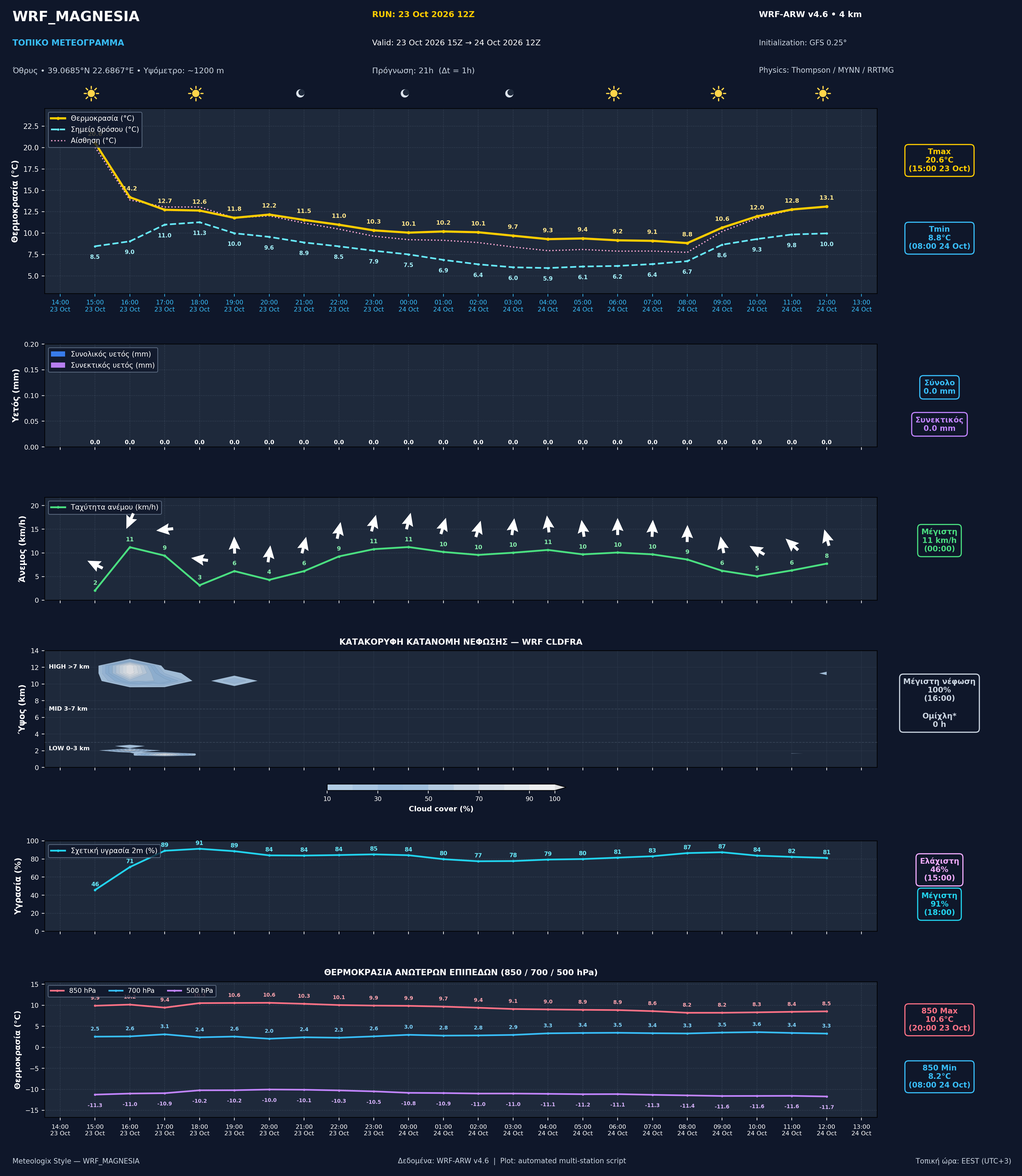
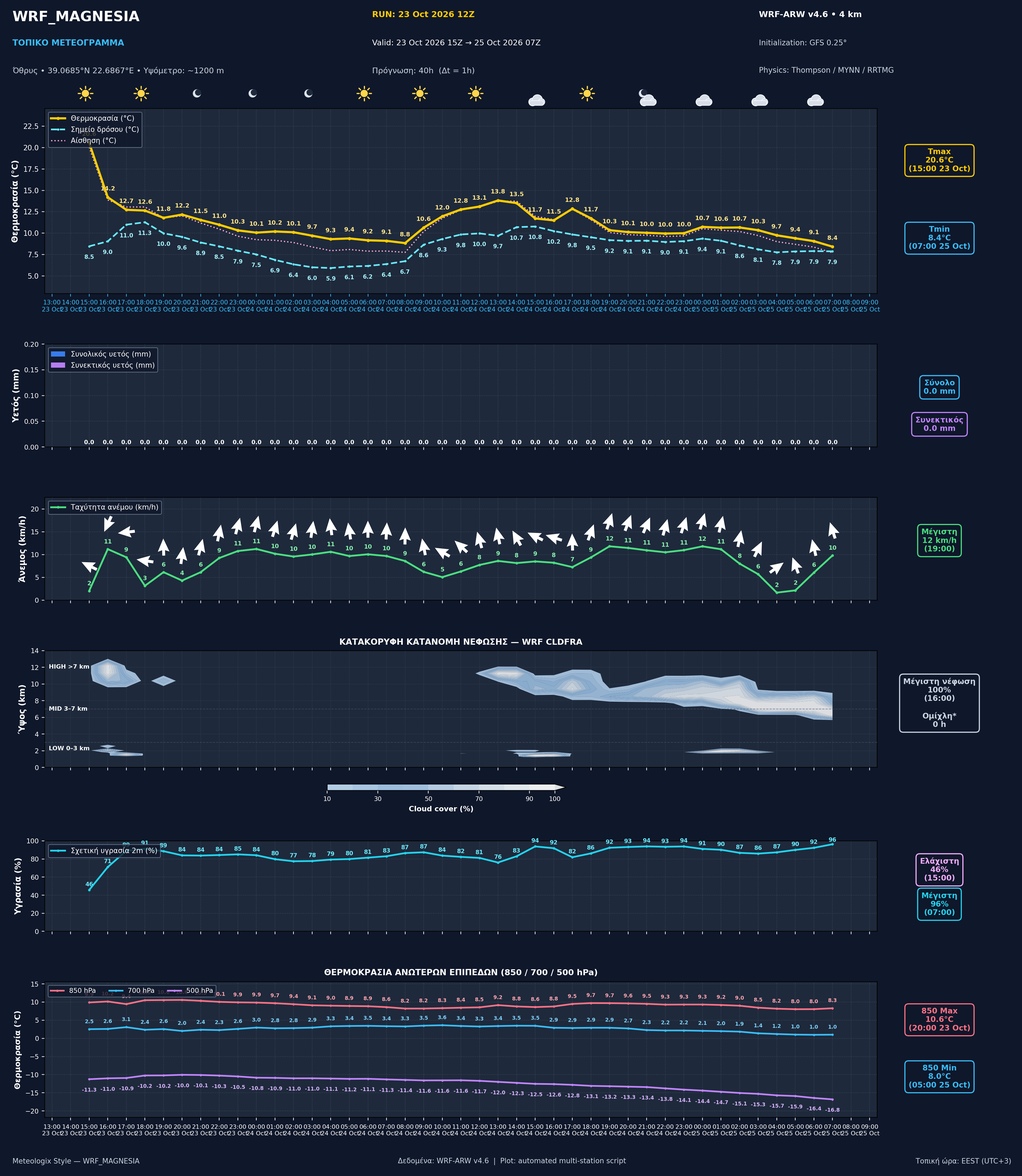
Update all WRF forecast maps

diff --git a/index.html b/index.html
@@ -485,7 +485,7 @@ const tabs=Array.from(document.querySelectorAll(".tab"));
 const title=document.getElementById("mapTitle"),validTime=document.getElementById("validTime"),slider=document.getElementById("hourSlider"),prev=document.getElementById("prevBtn"),next=document.getElementById("nextBtn"),placeholder=document.getElementById("mapPlaceholder"),image=document.getElementById("mapImage"),caption=document.getElementById("mapCaption"),statusText=document.getElementById("statusText");
 // Στο επόμενο βήμα θα βάλουμε εδώ τις δημόσιες διευθύνσεις των πραγματικών εικόνων WRF.
 // Παράδειγμα: rain:[{hour:0,url:"maps/rain_fh00.png",label:"..."}]
-const maps={"temp":[{"hour":0,"url":"maps/temp/Temp2m_LandRelief_FH0h.png","label":"+0 ώρες","valid":"Πρόγνωση +0 h","caption":"WRF MAGNESIA — +0 ώρες"},{"hour":1,"url":"maps/temp/Temp2m_LandRelief_FH1h.png","label":"+1 ώρες","valid":"Πρόγνωση +1 h","caption":"WRF MAGNESIA — +1 ώρες"},{"hour":2,"url":"maps/temp/Temp2m_LandRelief_FH2h.png","label":"+2 ώρες","valid":"Πρόγνωση +2 h","caption":"WRF MAGNESIA — +2 ώρες"},{"hour":3,"url":"maps/temp/Temp2m_LandRelief_FH3h.png","label":"+3 ώρες","valid":"Πρόγνωση +3 h","caption":"WRF MAGNESIA — +3 ώρες"},{"hour":4,"url":"maps/temp/Temp2m_LandRelief_FH4h.png","label":"+4 ώρες","valid":"Πρόγνωση +4 h","caption":"WRF MAGNESIA — +4 ώρες"},{"hour":5,"url":"maps/temp/Temp2m_LandRelief_FH5h.png","label":"+5 ώρες","valid":"Πρόγνωση +5 h","caption":"WRF MAGNESIA — +5 ώρες"},{"hour":6,"url":"maps/temp/Temp2m_LandRelief_FH6h.png","label":"+6 ώρες","valid":"Πρόγνωση +6 h","caption":"WRF MAGNESIA — +6 ώρες"},{"hour":7,"url":"maps/temp/Temp2m_LandRelief_FH7h.png","label":"+7 ώρες","valid":"Πρόγνωση +7 h","caption":"WRF MAGNESIA — +7 ώρες"},{"hour":8,"url":"maps/temp/Temp2m_LandRelief_FH8h.png","label":"+8 ώρες","valid":"Πρόγνωση +8 h","caption":"WRF MAGNESIA — +8 ώρες"},{"hour":9,"url":"maps/temp/Temp2m_LandRelief_FH9h.png","label":"+9 ώρες","valid":"Πρόγνωση +9 h","caption":"WRF MAGNESIA — +9 ώρες"},{"hour":10,"url":"maps/temp/Temp2m_LandRelief_FH10h.png","label":"+10 ώρες","valid":"Πρόγνωση +10 h","caption":"WRF MAGNESIA — +10 ώρες"},{"hour":11,"url":"maps/temp/Temp2m_LandRelief_FH11h.png","label":"+11 ώρες","valid":"Πρόγνωση +11 h","caption":"WRF MAGNESIA — +11 ώρες"},{"hour":12,"url":"maps/temp/Temp2m_LandRelief_FH12h.png","label":"+12 ώρες","valid":"Πρόγνωση +12 h","caption":"WRF MAGNESIA — +12 ώρες"},{"hour":13,"url":"maps/temp/Temp2m_LandRelief_FH13h.png","label":"+13 ώρες","valid":"Πρόγνωση +13 h","caption":"WRF MAGNESIA — +13 ώρες"},{"hour":14,"url":"maps/temp/Temp2m_LandRelief_FH14h.png","label":"+14 ώρες","valid":"Πρόγνωση +14 h","caption":"WRF MAGNESIA — +14 ώρες"},{"hour":15,"url":"maps/temp/Temp2m_LandRelief_FH15h.png","label":"+15 ώρες","valid":"Πρόγνωση +15 h","caption":"WRF MAGNESIA — +15 ώρες"},{"hour":16,"url":"maps/temp/Temp2m_LandRelief_FH16h.png","label":"+16 ώρες","valid":"Πρόγνωση +16 h","caption":"WRF MAGNESIA — +16 ώρες"},{"hour":17,"url":"maps/temp/Temp2m_LandRelief_FH17h.png","label":"+17 ώρες","valid":"Πρόγνωση +17 h","caption":"WRF MAGNESIA — +17 ώρες"},{"hour":18,"url":"maps/temp/Temp2m_LandRelief_FH18h.png","label":"+18 ώρες","valid":"Πρόγνωση +18 h","caption":"WRF MAGNESIA — +18 ώρες"},{"hour":19,"url":"maps/temp/Temp2m_LandRelief_FH19h.png","label":"+19 ώρες","valid":"Πρόγνωση +19 h","caption":"WRF MAGNESIA — +19 ώρες"},{"hour":20,"url":"maps/temp/Temp2m_LandRelief_FH20h.png","label":"+20 ώρες","valid":"Πρόγνωση +20 h","caption":"WRF MAGNESIA — +20 ώρες"},{"hour":21,"url":"maps/temp/Temp2m_LandRelief_FH21h.png","label":"+21 ώρες","valid":"Πρόγνωση +21 h","caption":"WRF MAGNESIA — +21 ώρες"}],"wind":[{"hour":0,"url":"maps/wind/WindGust_Meteologix_FH0h.png","label":"+0 ώρες","valid":"Πρόγνωση +0 h","caption":"WRF MAGNESIA — +0 ώρες"},{"hour":1,"url":"maps/wind/WindGust_Meteologix_FH1h.png","label":"+1 ώρες","valid":"Πρόγνωση +1 h","caption":"WRF MAGNESIA — +1 ώρες"},{"hour":2,"url":"maps/wind/WindGust_Meteologix_FH2h.png","label":"+2 ώρες","valid":"Πρόγνωση +2 h","caption":"WRF MAGNESIA — +2 ώρες"},{"hour":3,"url":"maps/wind/WindGust_Meteologix_FH3h.png","label":"+3 ώρες","valid":"Πρόγνωση +3 h","caption":"WRF MAGNESIA — +3 ώρες"},{"hour":4,"url":"maps/wind/WindGust_Meteologix_FH4h.png","label":"+4 ώρες","valid":"Πρόγνωση +4 h","caption":"WRF MAGNESIA — +4 ώρες"},{"hour":5,"url":"maps/wind/WindGust_Meteologix_FH5h.png","label":"+5 ώρες","valid":"Πρόγνωση +5 h","caption":"WRF MAGNESIA — +5 ώρες"},{"hour":6,"url":"maps/wind/WindGust_Meteologix_FH6h.png","label":"+6 ώρες","valid":"Πρόγνωση +6 h","caption":"WRF MAGNESIA — +6 ώρες"},{"hour":7,"url":"maps/wind/WindGust_Meteologix_FH7h.png","label":"+7 ώρες","valid":"Πρόγνωση +7 h","caption":"WRF MAGNESIA — +7 ώρες"},{"hour":8,"url":"maps/wind/WindGust_Meteologix_FH8h.png","label":"+8 ώρες","valid":"Πρόγνωση +8 h","caption":"WRF MAGNESIA — +8 ώρες"},{"hour":9,"url":"maps/wind/WindGust_Meteologix_FH9h.png","label":"+9 ώρες","valid":"Πρόγνωση +9 h","caption":"WRF MAGNESIA — +9 ώρες"},{"hour":10,"url":"maps/wind/WindGust_Meteologix_FH10h.png","label":"+10 ώρες","valid":"Πρόγνωση +10 h","caption":"WRF MAGNESIA — +10 ώρες"},{"hour":11,"url":"maps/wind/WindGust_Meteologix_FH11h.png","label":"+11 ώρες","valid":"Πρόγνωση +11 h","caption":"WRF MAGNESIA — +11 ώρες"},{"hour":12,"url":"maps/wind/WindGust_Meteologix_FH12h.png","label":"+12 ώρες","valid":"Πρόγνωση +12 h","caption":"WRF MAGNESIA — +12 ώρες"},{"hour":13,"url":"maps/wind/WindGust_Meteologix_FH13h.png","label":"+13 ώρες","valid":"Πρόγνωση +13 h","caption":"WRF MAGNESIA — +13 ώρες"},{"hour":14,"url":"maps/wind/WindGust_Meteologix_FH14h.png","label":"+14 ώρες","valid":"Πρόγνωση +14 h","caption":"WRF MAGNESIA — +14 ώρες"},{"hour":15,"url":"maps/wind/WindGust_Meteologix_FH15h.png","label":"+15 ώρες","valid":"Πρόγνωση +15 h","caption":"WRF MAGNESIA — +15 ώρες"},{"hour":16,"url":"maps/wind/WindGust_Meteologix_FH16h.png","label":"+16 ώρες","valid":"Πρόγνωση +16 h","caption":"WRF MAGNESIA — +16 ώρες"},{"hour":17,"url":"maps/wind/WindGust_Meteologix_FH17h.png","label":"+17 ώρες","valid":"Πρόγνωση +17 h","caption":"WRF MAGNESIA — +17 ώρες"},{"hour":18,"url":"maps/wind/WindGust_Meteologix_FH18h.png","label":"+18 ώρες","valid":"Πρόγνωση +18 h","caption":"WRF MAGNESIA — +18 ώρες"},{"hour":19,"url":"maps/wind/WindGust_Meteologix_FH19h.png","label":"+19 ώρες","valid":"Πρόγνωση +19 h","caption":"WRF MAGNESIA — +19 ώρες"},{"hour":20,"url":"maps/wind/WindGust_Meteologix_FH20h.png","label":"+20 ώρες","valid":"Πρόγνωση +20 h","caption":"WRF MAGNESIA — +20 ώρες"},{"hour":21,"url":"maps/wind/WindGust_Meteologix_FH21h.png","label":"+21 ώρες","valid":"Πρόγνωση +21 h","caption":"WRF MAGNESIA — +21 ώρες"}],"cloud":[{"hour":0,"url":"maps/cloud/Magnesia_Meteologix_2026-10-23_12-00-00.png","label":"2026-10-23 12:00","valid":"2026-10-23 12:00","caption":"WRF MAGNESIA — 2026-10-23 12:00"},{"hour":1,"url":"maps/cloud/Magnesia_Meteologix_2026-10-23_13-00-00.png","label":"2026-10-23 13:00","valid":"2026-10-23 13:00","caption":"WRF MAGNESIA — 2026-10-23 13:00"},{"hour":2,"url":"maps/cloud/Magnesia_Meteologix_2026-10-23_14-00-00.png","label":"2026-10-23 14:00","valid":"2026-10-23 14:00","caption":"WRF MAGNESIA — 2026-10-23 14:00"},{"hour":3,"url":"maps/cloud/Magnesia_Meteologix_2026-10-23_15-00-00.png","label":"2026-10-23 15:00","valid":"2026-10-23 15:00","caption":"WRF MAGNESIA — 2026-10-23 15:00"},{"hour":4,"url":"maps/cloud/Magnesia_Meteologix_2026-10-23_16-00-00.png","label":"2026-10-23 16:00","valid":"2026-10-23 16:00","caption":"WRF MAGNESIA — 2026-10-23 16:00"},{"hour":5,"url":"maps/cloud/Magnesia_Meteologix_2026-10-23_17-00-00.png","label":"2026-10-23 17:00","valid":"2026-10-23 17:00","caption":"WRF MAGNESIA — 2026-10-23 17:00"},{"hour":6,"url":"maps/cloud/Magnesia_Meteologix_2026-10-23_18-00-00.png","label":"2026-10-23 18:00","valid":"2026-10-23 18:00","caption":"WRF MAGNESIA — 2026-10-23 18:00"},{"hour":7,"url":"maps/cloud/Magnesia_Meteologix_2026-10-23_19-00-00.png","label":"2026-10-23 19:00","valid":"2026-10-23 19:00","caption":"WRF MAGNESIA — 2026-10-23 19:00"},{"hour":8,"url":"maps/cloud/Magnesia_Meteologix_2026-10-23_20-00-00.png","label":"2026-10-23 20:00","valid":"2026-10-23 20:00","caption":"WRF MAGNESIA — 2026-10-23 20:00"},{"hour":9,"url":"maps/cloud/Magnesia_Meteologix_2026-10-23_21-00-00.png","label":"2026-10-23 21:00","valid":"2026-10-23 21:00","caption":"WRF MAGNESIA — 2026-10-23 21:00"},{"hour":10,"url":"maps/cloud/Magnesia_Meteologix_2026-10-23_22-00-00.png","label":"2026-10-23 22:00","valid":"2026-10-23 22:00","caption":"WRF MAGNESIA — 2026-10-23 22:00"},{"hour":11,"url":"maps/cloud/Magnesia_Meteologix_2026-10-23_23-00-00.png","label":"2026-10-23 23:00","valid":"2026-10-23 23:00","caption":"WRF MAGNESIA — 2026-10-23 23:00"},{"hour":12,"url":"maps/cloud/Magnesia_Meteologix_2026-10-24_00-00-00.png","label":"2026-10-24 00:00","valid":"2026-10-24 00:00","caption":"WRF MAGNESIA — 2026-10-24 00:00"},{"hour":13,"url":"maps/cloud/Magnesia_Meteologix_2026-10-24_01-00-00.png","label":"2026-10-24 01:00","valid":"2026-10-24 01:00","caption":"WRF MAGNESIA — 2026-10-24 01:00"},{"hour":14,"url":"maps/cloud/Magnesia_Meteologix_2026-10-24_02-00-00.png","label":"2026-10-24 02:00","valid":"2026-10-24 02:00","caption":"WRF MAGNESIA — 2026-10-24 02:00"},{"hour":15,"url":"maps/cloud/Magnesia_Meteologix_2026-10-24_03-00-00.png","label":"2026-10-24 03:00","valid":"2026-10-24 03:00","caption":"WRF MAGNESIA — 2026-10-24 03:00"},{"hour":16,"url":"maps/cloud/Magnesia_Meteologix_2026-10-24_04-00-00.png","label":"2026-10-24 04:00","valid":"2026-10-24 04:00","caption":"WRF MAGNESIA — 2026-10-24 04:00"},{"hour":17,"url":"maps/cloud/Magnesia_Meteologix_2026-10-24_05-00-00.png","label":"2026-10-24 05:00","valid":"2026-10-24 05:00","caption":"WRF MAGNESIA — 2026-10-24 05:00"},{"hour":18,"url":"maps/cloud/Magnesia_Meteologix_2026-10-24_06-00-00.png","label":"2026-10-24 06:00","valid":"2026-10-24 06:00","caption":"WRF MAGNESIA — 2026-10-24 06:00"},{"hour":19,"url":"maps/cloud/Magnesia_Meteologix_2026-10-24_07-00-00.png","label":"2026-10-24 07:00","valid":"2026-10-24 07:00","caption":"WRF MAGNESIA — 2026-10-24 07:00"},{"hour":20,"url":"maps/cloud/Magnesia_Meteologix_2026-10-24_08-00-00.png","label":"2026-10-24 08:00","valid":"2026-10-24 08:00","caption":"WRF MAGNESIA — 2026-10-24 08:00"},{"hour":21,"url":"maps/cloud/Magnesia_Meteologix_2026-10-24_09-00-00.png","label":"2026-10-24 09:00","valid":"2026-10-24 09:00","caption":"WRF MAGNESIA — 2026-10-24 09:00"}],"rain":[{"hour":0,"url":"maps/rain/ (2).png","label":" (2)","valid":" (2)","caption":"WRF MAGNESIA —  (2)"},{"hour":1,"url":"maps/rain/ (3).png","label":" (3)","valid":" (3)","caption":"WRF MAGNESIA —  (3)"},{"hour":2,"url":"maps/rain/ (4).png","label":" (4)","valid":" (4)","caption":"WRF MAGNESIA —  (4)"},{"hour":3,"url":"maps/rain/ (5).png","label":" (5)","valid":" (5)","caption":"WRF MAGNESIA —  (5)"}],"snow":[{"hour":0,"url":"maps/snow/Magnesia_Snow_20261022_0000.png","label":"2026-10-22 00:00","valid":"2026-10-22 00:00","caption":"WRF MAGNESIA — 2026-10-22 00:00"},{"hour":1,"url":"maps/snow/Magnesia_Snow_20261022_0100.png","label":"2026-10-22 01:00","valid":"2026-10-22 01:00","caption":"WRF MAGNESIA — 2026-10-22 01:00"},{"hour":2,"url":"maps/snow/Magnesia_Snow_20261022_0200.png","label":"2026-10-22 02:00","valid":"2026-10-22 02:00","caption":"WRF MAGNESIA — 2026-10-22 02:00"},{"hour":3,"url":"maps/snow/Magnesia_Snow_20261022_0300.png","label":"2026-10-22 03:00","valid":"2026-10-22 03:00","caption":"WRF MAGNESIA — 2026-10-22 03:00"},{"hour":4,"url":"maps/snow/Magnesia_Snow_20261022_0400.png","label":"2026-10-22 04:00","valid":"2026-10-22 04:00","caption":"WRF MAGNESIA — 2026-10-22 04:00"},{"hour":5,"url":"maps/snow/Magnesia_Snow_20261022_0500.png","label":"2026-10-22 05:00","valid":"2026-10-22 05:00","caption":"WRF MAGNESIA — 2026-10-22 05:00"},{"hour":6,"url":"maps/snow/Magnesia_Snow_20261022_0600.png","label":"2026-10-22 06:00","valid":"2026-10-22 06:00","caption":"WRF MAGNESIA — 2026-10-22 06:00"},{"hour":7,"url":"maps/snow/Magnesia_Snow_20261022_0700.png","label":"2026-10-22 07:00","valid":"2026-10-22 07:00","caption":"WRF MAGNESIA — 2026-10-22 07:00"},{"hour":8,"url":"maps/snow/Magnesia_Snow_20261022_0800.png","label":"2026-10-22 08:00","valid":"2026-10-22 08:00","caption":"WRF MAGNESIA — 2026-10-22 08:00"},{"hour":9,"url":"maps/snow/Magnesia_Snow_20261022_0900.png","label":"2026-10-22 09:00","valid":"2026-10-22 09:00","caption":"WRF MAGNESIA — 2026-10-22 09:00"},{"hour":10,"url":"maps/snow/Magnesia_Snow_20261022_1000.png","label":"2026-10-22 10:00","valid":"2026-10-22 10:00","caption":"WRF MAGNESIA — 2026-10-22 10:00"},{"hour":11,"url":"maps/snow/Magnesia_Snow_20261022_1100.png","label":"2026-10-22 11:00","valid":"2026-10-22 11:00","caption":"WRF MAGNESIA — 2026-10-22 11:00"},{"hour":12,"url":"maps/snow/Magnesia_Snow_20261022_1200.png","label":"2026-10-22 12:00","valid":"2026-10-22 12:00","caption":"WRF MAGNESIA — 2026-10-22 12:00"},{"hour":13,"url":"maps/snow/Magnesia_Snow_20261022_1300.png","label":"2026-10-22 13:00","valid":"2026-10-22 13:00","caption":"WRF MAGNESIA — 2026-10-22 13:00"},{"hour":14,"url":"maps/snow/Magnesia_Snow_20261022_1400.png","label":"2026-10-22 14:00","valid":"2026-10-22 14:00","caption":"WRF MAGNESIA — 2026-10-22 14:00"},{"hour":15,"url":"maps/snow/Magnesia_Snow_20261022_1500.png","label":"2026-10-22 15:00","valid":"2026-10-22 15:00","caption":"WRF MAGNESIA — 2026-10-22 15:00"},{"hour":16,"url":"maps/snow/Magnesia_Snow_20261022_1600.png","label":"2026-10-22 16:00","valid":"2026-10-22 16:00","caption":"WRF MAGNESIA — 2026-10-22 16:00"},{"hour":17,"url":"maps/snow/Magnesia_Snow_20261022_1700.png","label":"2026-10-22 17:00","valid":"2026-10-22 17:00","caption":"WRF MAGNESIA — 2026-10-22 17:00"},{"hour":18,"url":"maps/snow/Magnesia_Snow_20261022_1800.png","label":"2026-10-22 18:00","valid":"2026-10-22 18:00","caption":"WRF MAGNESIA — 2026-10-22 18:00"},{"hour":19,"url":"maps/snow/Magnesia_Snow_20261022_1900.png","label":"2026-10-22 19:00","valid":"2026-10-22 19:00","caption":"WRF MAGNESIA — 2026-10-22 19:00"},{"hour":20,"url":"maps/snow/Magnesia_Snow_20261022_2000.png","label":"2026-10-22 20:00","valid":"2026-10-22 20:00","caption":"WRF MAGNESIA — 2026-10-22 20:00"},{"hour":21,"url":"maps/snow/Magnesia_Snow_20261022_2100.png","label":"2026-10-22 21:00","valid":"2026-10-22 21:00","caption":"WRF MAGNESIA — 2026-10-22 21:00"},{"hour":22,"url":"maps/snow/Magnesia_Snow_20261022_2200.png","label":"2026-10-22 22:00","valid":"2026-10-22 22:00","caption":"WRF MAGNESIA — 2026-10-22 22:00"},{"hour":23,"url":"maps/snow/Magnesia_Snow_20261022_2300.png","label":"2026-10-22 23:00","valid":"2026-10-22 23:00","caption":"WRF MAGNESIA — 2026-10-22 23:00"},{"hour":24,"url":"maps/snow/Magnesia_Snow_20261023_0000.png","label":"2026-10-23 00:00","valid":"2026-10-23 00:00","caption":"WRF MAGNESIA — 2026-10-23 00:00"},{"hour":25,"url":"maps/snow/Magnesia_Snow_20261023_0100.png","label":"2026-10-23 01:00","valid":"2026-10-23 01:00","caption":"WRF MAGNESIA — 2026-10-23 01:00"},{"hour":26,"url":"maps/snow/Magnesia_Snow_20261023_0200.png","label":"2026-10-23 02:00","valid":"2026-10-23 02:00","caption":"WRF MAGNESIA — 2026-10-23 02:00"},{"hour":27,"url":"maps/snow/Magnesia_Snow_20261023_0300.png","label":"2026-10-23 03:00","valid":"2026-10-23 03:00","caption":"WRF MAGNESIA — 2026-10-23 03:00"},{"hour":28,"url":"maps/snow/Magnesia_Snow_20261023_0400.png","label":"2026-10-23 04:00","valid":"2026-10-23 04:00","caption":"WRF MAGNESIA — 2026-10-23 04:00"},{"hour":29,"url":"maps/snow/Magnesia_Snow_20261023_0500.png","label":"2026-10-23 05:00","valid":"2026-10-23 05:00","caption":"WRF MAGNESIA — 2026-10-23 05:00"},{"hour":30,"url":"maps/snow/Magnesia_Snow_20261023_0600.png","label":"2026-10-23 06:00","valid":"2026-10-23 06:00","caption":"WRF MAGNESIA — 2026-10-23 06:00"}],"meteograms":[{"hour":0,"url":"maps/meteograms/Meteogram_Αλμυρός.png","label":"Αλμυρός","valid":"Αλμυρός","caption":"WRF MAGNESIA — Αλμυρός"},{"hour":1,"url":"maps/meteograms/Meteogram_Ανάβρα.png","label":"Ανάβρα","valid":"Ανάβρα","caption":"WRF MAGNESIA — Ανάβρα"},{"hour":2,"url":"maps/meteograms/Meteogram_Αργαλαστή.png","label":"Αργαλαστή","valid":"Αργαλαστή","caption":"WRF MAGNESIA — Αργαλαστή"},{"hour":3,"url":"maps/meteograms/Meteogram_Βόλος.png","label":"Βόλος","valid":"Βόλος","caption":"WRF MAGNESIA — Βόλος"},{"hour":4,"url":"maps/meteograms/Meteogram_Ζαγορά.png","label":"Ζαγορά","valid":"Ζαγορά","caption":"WRF MAGNESIA — Ζαγορά"},{"hour":5,"url":"maps/meteograms/Meteogram_Κωφοί_Μαγνησίας.png","label":"Κωφοί Μαγνησίας","valid":"Κωφοί Μαγνησίας","caption":"WRF MAGNESIA — Κωφοί Μαγνησίας"},{"hour":6,"url":"maps/meteograms/Meteogram_Σούρπη.png","label":"Σούρπη","valid":"Σούρπη","caption":"WRF MAGNESIA — Σούρπη"},{"hour":7,"url":"maps/meteograms/Meteogram_Όθρυς.png","label":"Όθρυς","valid":"Όθρυς","caption":"WRF MAGNESIA — Όθρυς"}],"storms":[],"profiles":[{"hour":0,"url":"maps/profiles/kofos_vertical_advanced_v4_4_gfs_direct.png","label":"Κωφοί — κατακόρυφο προφίλ","valid":"Κωφοί — κατακόρυφο προφίλ","caption":"WRF MAGNESIA — Κωφοί — κατακόρυφο προφίλ"}],"local-forecast":[{"hour":0,"url":"maps/local-forecast/forecast_almyros.png","label":"almyros","valid":"almyros","caption":"WRF MAGNESIA — almyros"},{"hour":1,"url":"maps/local-forecast/forecast_anchialos.png","label":"anchialos","valid":"anchialos","caption":"WRF MAGNESIA — anchialos"},{"hour":2,"url":"maps/local-forecast/forecast_argalasti.png","label":"argalasti","valid":"argalasti","caption":"WRF MAGNESIA — argalasti"},{"hour":3,"url":"maps/local-forecast/forecast_kofoi.png","label":"kofoi","valid":"kofoi","caption":"WRF MAGNESIA — kofoi"},{"hour":4,"url":"maps/local-forecast/forecast_othrys.png","label":"othrys","valid":"othrys","caption":"WRF MAGNESIA — othrys"},{"hour":5,"url":"maps/local-forecast/forecast_sourpi.png","label":"sourpi","valid":"sourpi","caption":"WRF MAGNESIA — sourpi"},{"hour":6,"url":"maps/local-forecast/forecast_velestino.png","label":"velestino","valid":"velestino","caption":"WRF MAGNESIA — velestino"},{"hour":7,"url":"maps/local-forecast/forecast_volos.png","label":"volos","valid":"volos","caption":"WRF MAGNESIA — volos"},{"hour":8,"url":"maps/local-forecast/forecast_zagora.png","label":"zagora","valid":"zagora","caption":"WRF MAGNESIA — zagora"}],"national-rain":[]};
+const maps={"temp":[{"hour":0,"url":"maps/temp/Temp2m_LandRelief_FH0h.png","label":"+0 ώρες","valid":"Πρόγνωση +0 h","caption":"WRF MAGNESIA — +0 ώρες"},{"hour":1,"url":"maps/temp/Temp2m_LandRelief_FH1h.png","label":"+1 ώρες","valid":"Πρόγνωση +1 h","caption":"WRF MAGNESIA — +1 ώρες"},{"hour":2,"url":"maps/temp/Temp2m_LandRelief_FH2h.png","label":"+2 ώρες","valid":"Πρόγνωση +2 h","caption":"WRF MAGNESIA — +2 ώρες"},{"hour":3,"url":"maps/temp/Temp2m_LandRelief_FH3h.png","label":"+3 ώρες","valid":"Πρόγνωση +3 h","caption":"WRF MAGNESIA — +3 ώρες"},{"hour":4,"url":"maps/temp/Temp2m_LandRelief_FH4h.png","label":"+4 ώρες","valid":"Πρόγνωση +4 h","caption":"WRF MAGNESIA — +4 ώρες"},{"hour":5,"url":"maps/temp/Temp2m_LandRelief_FH5h.png","label":"+5 ώρες","valid":"Πρόγνωση +5 h","caption":"WRF MAGNESIA — +5 ώρες"},{"hour":6,"url":"maps/temp/Temp2m_LandRelief_FH6h.png","label":"+6 ώρες","valid":"Πρόγνωση +6 h","caption":"WRF MAGNESIA — +6 ώρες"},{"hour":7,"url":"maps/temp/Temp2m_LandRelief_FH7h.png","label":"+7 ώρες","valid":"Πρόγνωση +7 h","caption":"WRF MAGNESIA — +7 ώρες"},{"hour":8,"url":"maps/temp/Temp2m_LandRelief_FH8h.png","label":"+8 ώρες","valid":"Πρόγνωση +8 h","caption":"WRF MAGNESIA — +8 ώρες"},{"hour":9,"url":"maps/temp/Temp2m_LandRelief_FH9h.png","label":"+9 ώρες","valid":"Πρόγνωση +9 h","caption":"WRF MAGNESIA — +9 ώρες"},{"hour":10,"url":"maps/temp/Temp2m_LandRelief_FH10h.png","label":"+10 ώρες","valid":"Πρόγνωση +10 h","caption":"WRF MAGNESIA — +10 ώρες"},{"hour":11,"url":"maps/temp/Temp2m_LandRelief_FH11h.png","label":"+11 ώρες","valid":"Πρόγνωση +11 h","caption":"WRF MAGNESIA — +11 ώρες"},{"hour":12,"url":"maps/temp/Temp2m_LandRelief_FH12h.png","label":"+12 ώρες","valid":"Πρόγνωση +12 h","caption":"WRF MAGNESIA — +12 ώρες"},{"hour":13,"url":"maps/temp/Temp2m_LandRelief_FH13h.png","label":"+13 ώρες","valid":"Πρόγνωση +13 h","caption":"WRF MAGNESIA — +13 ώρες"},{"hour":14,"url":"maps/temp/Temp2m_LandRelief_FH14h.png","label":"+14 ώρες","valid":"Πρόγνωση +14 h","caption":"WRF MAGNESIA — +14 ώρες"},{"hour":15,"url":"maps/temp/Temp2m_LandRelief_FH15h.png","label":"+15 ώρες","valid":"Πρόγνωση +15 h","caption":"WRF MAGNESIA — +15 ώρες"},{"hour":16,"url":"maps/temp/Temp2m_LandRelief_FH16h.png","label":"+16 ώρες","valid":"Πρόγνωση +16 h","caption":"WRF MAGNESIA — +16 ώρες"},{"hour":17,"url":"maps/temp/Temp2m_LandRelief_FH17h.png","label":"+17 ώρες","valid":"Πρόγνωση +17 h","caption":"WRF MAGNESIA — +17 ώρες"},{"hour":18,"url":"maps/temp/Temp2m_LandRelief_FH18h.png","label":"+18 ώρες","valid":"Πρόγνωση +18 h","caption":"WRF MAGNESIA — +18 ώρες"},{"hour":19,"url":"maps/temp/Temp2m_LandRelief_FH19h.png","label":"+19 ώρες","valid":"Πρόγνωση +19 h","caption":"WRF MAGNESIA — +19 ώρες"},{"hour":20,"url":"maps/temp/Temp2m_LandRelief_FH20h.png","label":"+20 ώρες","valid":"Πρόγνωση +20 h","caption":"WRF MAGNESIA — +20 ώρες"},{"hour":21,"url":"maps/temp/Temp2m_LandRelief_FH21h.png","label":"+21 ώρες","valid":"Πρόγνωση +21 h","caption":"WRF MAGNESIA — +21 ώρες"},{"hour":22,"url":"maps/temp/Temp2m_LandRelief_FH22h.png","label":"+22 ώρες","valid":"Πρόγνωση +22 h","caption":"WRF MAGNESIA — +22 ώρες"},{"hour":23,"url":"maps/temp/Temp2m_LandRelief_FH23h.png","label":"+23 ώρες","valid":"Πρόγνωση +23 h","caption":"WRF MAGNESIA — +23 ώρες"},{"hour":24,"url":"maps/temp/Temp2m_LandRelief_FH24h.png","label":"+24 ώρες","valid":"Πρόγνωση +24 h","caption":"WRF MAGNESIA — +24 ώρες"},{"hour":25,"url":"maps/temp/Temp2m_LandRelief_FH25h.png","label":"+25 ώρες","valid":"Πρόγνωση +25 h","caption":"WRF MAGNESIA — +25 ώρες"},{"hour":26,"url":"maps/temp/Temp2m_LandRelief_FH26h.png","label":"+26 ώρες","valid":"Πρόγνωση +26 h","caption":"WRF MAGNESIA — +26 ώρες"},{"hour":27,"url":"maps/temp/Temp2m_LandRelief_FH27h.png","label":"+27 ώρες","valid":"Πρόγνωση +27 h","caption":"WRF MAGNESIA — +27 ώρες"},{"hour":28,"url":"maps/temp/Temp2m_LandRelief_FH28h.png","label":"+28 ώρες","valid":"Πρόγνωση +28 h","caption":"WRF MAGNESIA — +28 ώρες"},{"hour":29,"url":"maps/temp/Temp2m_LandRelief_FH29h.png","label":"+29 ώρες","valid":"Πρόγνωση +29 h","caption":"WRF MAGNESIA — +29 ώρες"},{"hour":30,"url":"maps/temp/Temp2m_LandRelief_FH30h.png","label":"+30 ώρες","valid":"Πρόγνωση +30 h","caption":"WRF MAGNESIA — +30 ώρες"},{"hour":31,"url":"maps/temp/Temp2m_LandRelief_FH31h.png","label":"+31 ώρες","valid":"Πρόγνωση +31 h","caption":"WRF MAGNESIA — +31 ώρες"},{"hour":32,"url":"maps/temp/Temp2m_LandRelief_FH32h.png","label":"+32 ώρες","valid":"Πρόγνωση +32 h","caption":"WRF MAGNESIA — +32 ώρες"},{"hour":33,"url":"maps/temp/Temp2m_LandRelief_FH33h.png","label":"+33 ώρες","valid":"Πρόγνωση +33 h","caption":"WRF MAGNESIA — +33 ώρες"},{"hour":34,"url":"maps/temp/Temp2m_LandRelief_FH34h.png","label":"+34 ώρες","valid":"Πρόγνωση +34 h","caption":"WRF MAGNESIA — +34 ώρες"},{"hour":35,"url":"maps/temp/Temp2m_LandRelief_FH35h.png","label":"+35 ώρες","valid":"Πρόγνωση +35 h","caption":"WRF MAGNESIA — +35 ώρες"},{"hour":36,"url":"maps/temp/Temp2m_LandRelief_FH36h.png","label":"+36 ώρες","valid":"Πρόγνωση +36 h","caption":"WRF MAGNESIA — +36 ώρες"},{"hour":37,"url":"maps/temp/Temp2m_LandRelief_FH37h.png","label":"+37 ώρες","valid":"Πρόγνωση +37 h","caption":"WRF MAGNESIA — +37 ώρες"},{"hour":38,"url":"maps/temp/Temp2m_LandRelief_FH38h.png","label":"+38 ώρες","valid":"Πρόγνωση +38 h","caption":"WRF MAGNESIA — +38 ώρες"},{"hour":39,"url":"maps/temp/Temp2m_LandRelief_FH39h.png","label":"+39 ώρες","valid":"Πρόγνωση +39 h","caption":"WRF MAGNESIA — +39 ώρες"},{"hour":40,"url":"maps/temp/Temp2m_LandRelief_FH40h.png","label":"+40 ώρες","valid":"Πρόγνωση +40 h","caption":"WRF MAGNESIA — +40 ώρες"}],"wind":[{"hour":0,"url":"maps/wind/WindGust_Meteologix_FH0h.png","label":"+0 ώρες","valid":"Πρόγνωση +0 h","caption":"WRF MAGNESIA — +0 ώρες"},{"hour":1,"url":"maps/wind/WindGust_Meteologix_FH1h.png","label":"+1 ώρες","valid":"Πρόγνωση +1 h","caption":"WRF MAGNESIA — +1 ώρες"},{"hour":2,"url":"maps/wind/WindGust_Meteologix_FH2h.png","label":"+2 ώρες","valid":"Πρόγνωση +2 h","caption":"WRF MAGNESIA — +2 ώρες"},{"hour":3,"url":"maps/wind/WindGust_Meteologix_FH3h.png","label":"+3 ώρες","valid":"Πρόγνωση +3 h","caption":"WRF MAGNESIA — +3 ώρες"},{"hour":4,"url":"maps/wind/WindGust_Meteologix_FH4h.png","label":"+4 ώρες","valid":"Πρόγνωση +4 h","caption":"WRF MAGNESIA — +4 ώρες"},{"hour":5,"url":"maps/wind/WindGust_Meteologix_FH5h.png","label":"+5 ώρες","valid":"Πρόγνωση +5 h","caption":"WRF MAGNESIA — +5 ώρες"},{"hour":6,"url":"maps/wind/WindGust_Meteologix_FH6h.png","label":"+6 ώρες","valid":"Πρόγνωση +6 h","caption":"WRF MAGNESIA — +6 ώρες"},{"hour":7,"url":"maps/wind/WindGust_Meteologix_FH7h.png","label":"+7 ώρες","valid":"Πρόγνωση +7 h","caption":"WRF MAGNESIA — +7 ώρες"},{"hour":8,"url":"maps/wind/WindGust_Meteologix_FH8h.png","label":"+8 ώρες","valid":"Πρόγνωση +8 h","caption":"WRF MAGNESIA — +8 ώρες"},{"hour":9,"url":"maps/wind/WindGust_Meteologix_FH9h.png","label":"+9 ώρες","valid":"Πρόγνωση +9 h","caption":"WRF MAGNESIA — +9 ώρες"},{"hour":10,"url":"maps/wind/WindGust_Meteologix_FH10h.png","label":"+10 ώρες","valid":"Πρόγνωση +10 h","caption":"WRF MAGNESIA — +10 ώρες"},{"hour":11,"url":"maps/wind/WindGust_Meteologix_FH11h.png","label":"+11 ώρες","valid":"Πρόγνωση +11 h","caption":"WRF MAGNESIA — +11 ώρες"},{"hour":12,"url":"maps/wind/WindGust_Meteologix_FH12h.png","label":"+12 ώρες","valid":"Πρόγνωση +12 h","caption":"WRF MAGNESIA — +12 ώρες"},{"hour":13,"url":"maps/wind/WindGust_Meteologix_FH13h.png","label":"+13 ώρες","valid":"Πρόγνωση +13 h","caption":"WRF MAGNESIA — +13 ώρες"},{"hour":14,"url":"maps/wind/WindGust_Meteologix_FH14h.png","label":"+14 ώρες","valid":"Πρόγνωση +14 h","caption":"WRF MAGNESIA — +14 ώρες"},{"hour":15,"url":"maps/wind/WindGust_Meteologix_FH15h.png","label":"+15 ώρες","valid":"Πρόγνωση +15 h","caption":"WRF MAGNESIA — +15 ώρες"},{"hour":16,"url":"maps/wind/WindGust_Meteologix_FH16h.png","label":"+16 ώρες","valid":"Πρόγνωση +16 h","caption":"WRF MAGNESIA — +16 ώρες"},{"hour":17,"url":"maps/wind/WindGust_Meteologix_FH17h.png","label":"+17 ώρες","valid":"Πρόγνωση +17 h","caption":"WRF MAGNESIA — +17 ώρες"},{"hour":18,"url":"maps/wind/WindGust_Meteologix_FH18h.png","label":"+18 ώρες","valid":"Πρόγνωση +18 h","caption":"WRF MAGNESIA — +18 ώρες"},{"hour":19,"url":"maps/wind/WindGust_Meteologix_FH19h.png","label":"+19 ώρες","valid":"Πρόγνωση +19 h","caption":"WRF MAGNESIA — +19 ώρες"},{"hour":20,"url":"maps/wind/WindGust_Meteologix_FH20h.png","label":"+20 ώρες","valid":"Πρόγνωση +20 h","caption":"WRF MAGNESIA — +20 ώρες"},{"hour":21,"url":"maps/wind/WindGust_Meteologix_FH21h.png","label":"+21 ώρες","valid":"Πρόγνωση +21 h","caption":"WRF MAGNESIA — +21 ώρες"},{"hour":22,"url":"maps/wind/WindGust_Meteologix_FH22h.png","label":"+22 ώρες","valid":"Πρόγνωση +22 h","caption":"WRF MAGNESIA — +22 ώρες"},{"hour":23,"url":"maps/wind/WindGust_Meteologix_FH23h.png","label":"+23 ώρες","valid":"Πρόγνωση +23 h","caption":"WRF MAGNESIA — +23 ώρες"},{"hour":24,"url":"maps/wind/WindGust_Meteologix_FH24h.png","label":"+24 ώρες","valid":"Πρόγνωση +24 h","caption":"WRF MAGNESIA — +24 ώρες"},{"hour":25,"url":"maps/wind/WindGust_Meteologix_FH25h.png","label":"+25 ώρες","valid":"Πρόγνωση +25 h","caption":"WRF MAGNESIA — +25 ώρες"},{"hour":26,"url":"maps/wind/WindGust_Meteologix_FH26h.png","label":"+26 ώρες","valid":"Πρόγνωση +26 h","caption":"WRF MAGNESIA — +26 ώρες"},{"hour":27,"url":"maps/wind/WindGust_Meteologix_FH27h.png","label":"+27 ώρες","valid":"Πρόγνωση +27 h","caption":"WRF MAGNESIA — +27 ώρες"},{"hour":28,"url":"maps/wind/WindGust_Meteologix_FH28h.png","label":"+28 ώρες","valid":"Πρόγνωση +28 h","caption":"WRF MAGNESIA — +28 ώρες"},{"hour":29,"url":"maps/wind/WindGust_Meteologix_FH29h.png","label":"+29 ώρες","valid":"Πρόγνωση +29 h","caption":"WRF MAGNESIA — +29 ώρες"},{"hour":30,"url":"maps/wind/WindGust_Meteologix_FH30h.png","label":"+30 ώρες","valid":"Πρόγνωση +30 h","caption":"WRF MAGNESIA — +30 ώρες"},{"hour":31,"url":"maps/wind/WindGust_Meteologix_FH31h.png","label":"+31 ώρες","valid":"Πρόγνωση +31 h","caption":"WRF MAGNESIA — +31 ώρες"},{"hour":32,"url":"maps/wind/WindGust_Meteologix_FH32h.png","label":"+32 ώρες","valid":"Πρόγνωση +32 h","caption":"WRF MAGNESIA — +32 ώρες"},{"hour":33,"url":"maps/wind/WindGust_Meteologix_FH33h.png","label":"+33 ώρες","valid":"Πρόγνωση +33 h","caption":"WRF MAGNESIA — +33 ώρες"},{"hour":34,"url":"maps/wind/WindGust_Meteologix_FH34h.png","label":"+34 ώρες","valid":"Πρόγνωση +34 h","caption":"WRF MAGNESIA — +34 ώρες"},{"hour":35,"url":"maps/wind/WindGust_Meteologix_FH35h.png","label":"+35 ώρες","valid":"Πρόγνωση +35 h","caption":"WRF MAGNESIA — +35 ώρες"},{"hour":36,"url":"maps/wind/WindGust_Meteologix_FH36h.png","label":"+36 ώρες","valid":"Πρόγνωση +36 h","caption":"WRF MAGNESIA — +36 ώρες"},{"hour":37,"url":"maps/wind/WindGust_Meteologix_FH37h.png","label":"+37 ώρες","valid":"Πρόγνωση +37 h","caption":"WRF MAGNESIA — +37 ώρες"},{"hour":38,"url":"maps/wind/WindGust_Meteologix_FH38h.png","label":"+38 ώρες","valid":"Πρόγνωση +38 h","caption":"WRF MAGNESIA — +38 ώρες"},{"hour":39,"url":"maps/wind/WindGust_Meteologix_FH39h.png","label":"+39 ώρες","valid":"Πρόγνωση +39 h","caption":"WRF MAGNESIA — +39 ώρες"},{"hour":40,"url":"maps/wind/WindGust_Meteologix_FH40h.png","label":"+40 ώρες","valid":"Πρόγνωση +40 h","caption":"WRF MAGNESIA — +40 ώρες"}],"cloud":[{"hour":0,"url":"maps/cloud/Magnesia_Meteologix_2026-10-23_12-00-00.png","label":"2026-10-23 12:00","valid":"2026-10-23 12:00","caption":"WRF MAGNESIA — 2026-10-23 12:00"},{"hour":1,"url":"maps/cloud/Magnesia_Meteologix_2026-10-23_13-00-00.png","label":"2026-10-23 13:00","valid":"2026-10-23 13:00","caption":"WRF MAGNESIA — 2026-10-23 13:00"},{"hour":2,"url":"maps/cloud/Magnesia_Meteologix_2026-10-23_14-00-00.png","label":"2026-10-23 14:00","valid":"2026-10-23 14:00","caption":"WRF MAGNESIA — 2026-10-23 14:00"},{"hour":3,"url":"maps/cloud/Magnesia_Meteologix_2026-10-23_15-00-00.png","label":"2026-10-23 15:00","valid":"2026-10-23 15:00","caption":"WRF MAGNESIA — 2026-10-23 15:00"},{"hour":4,"url":"maps/cloud/Magnesia_Meteologix_2026-10-23_16-00-00.png","label":"2026-10-23 16:00","valid":"2026-10-23 16:00","caption":"WRF MAGNESIA — 2026-10-23 16:00"},{"hour":5,"url":"maps/cloud/Magnesia_Meteologix_2026-10-23_17-00-00.png","label":"2026-10-23 17:00","valid":"2026-10-23 17:00","caption":"WRF MAGNESIA — 2026-10-23 17:00"},{"hour":6,"url":"maps/cloud/Magnesia_Meteologix_2026-10-23_18-00-00.png","label":"2026-10-23 18:00","valid":"2026-10-23 18:00","caption":"WRF MAGNESIA — 2026-10-23 18:00"},{"hour":7,"url":"maps/cloud/Magnesia_Meteologix_2026-10-23_19-00-00.png","label":"2026-10-23 19:00","valid":"2026-10-23 19:00","caption":"WRF MAGNESIA — 2026-10-23 19:00"},{"hour":8,"url":"maps/cloud/Magnesia_Meteologix_2026-10-23_20-00-00.png","label":"2026-10-23 20:00","valid":"2026-10-23 20:00","caption":"WRF MAGNESIA — 2026-10-23 20:00"},{"hour":9,"url":"maps/cloud/Magnesia_Meteologix_2026-10-23_21-00-00.png","label":"2026-10-23 21:00","valid":"2026-10-23 21:00","caption":"WRF MAGNESIA — 2026-10-23 21:00"},{"hour":10,"url":"maps/cloud/Magnesia_Meteologix_2026-10-23_22-00-00.png","label":"2026-10-23 22:00","valid":"2026-10-23 22:00","caption":"WRF MAGNESIA — 2026-10-23 22:00"},{"hour":11,"url":"maps/cloud/Magnesia_Meteologix_2026-10-23_23-00-00.png","label":"2026-10-23 23:00","valid":"2026-10-23 23:00","caption":"WRF MAGNESIA — 2026-10-23 23:00"},{"hour":12,"url":"maps/cloud/Magnesia_Meteologix_2026-10-24_00-00-00.png","label":"2026-10-24 00:00","valid":"2026-10-24 00:00","caption":"WRF MAGNESIA — 2026-10-24 00:00"},{"hour":13,"url":"maps/cloud/Magnesia_Meteologix_2026-10-24_01-00-00.png","label":"2026-10-24 01:00","valid":"2026-10-24 01:00","caption":"WRF MAGNESIA — 2026-10-24 01:00"},{"hour":14,"url":"maps/cloud/Magnesia_Meteologix_2026-10-24_02-00-00.png","label":"2026-10-24 02:00","valid":"2026-10-24 02:00","caption":"WRF MAGNESIA — 2026-10-24 02:00"},{"hour":15,"url":"maps/cloud/Magnesia_Meteologix_2026-10-24_03-00-00.png","label":"2026-10-24 03:00","valid":"2026-10-24 03:00","caption":"WRF MAGNESIA — 2026-10-24 03:00"},{"hour":16,"url":"maps/cloud/Magnesia_Meteologix_2026-10-24_04-00-00.png","label":"2026-10-24 04:00","valid":"2026-10-24 04:00","caption":"WRF MAGNESIA — 2026-10-24 04:00"},{"hour":17,"url":"maps/cloud/Magnesia_Meteologix_2026-10-24_05-00-00.png","label":"2026-10-24 05:00","valid":"2026-10-24 05:00","caption":"WRF MAGNESIA — 2026-10-24 05:00"},{"hour":18,"url":"maps/cloud/Magnesia_Meteologix_2026-10-24_06-00-00.png","label":"2026-10-24 06:00","valid":"2026-10-24 06:00","caption":"WRF MAGNESIA — 2026-10-24 06:00"},{"hour":19,"url":"maps/cloud/Magnesia_Meteologix_2026-10-24_07-00-00.png","label":"2026-10-24 07:00","valid":"2026-10-24 07:00","caption":"WRF MAGNESIA — 2026-10-24 07:00"},{"hour":20,"url":"maps/cloud/Magnesia_Meteologix_2026-10-24_08-00-00.png","label":"2026-10-24 08:00","valid":"2026-10-24 08:00","caption":"WRF MAGNESIA — 2026-10-24 08:00"},{"hour":21,"url":"maps/cloud/Magnesia_Meteologix_2026-10-24_09-00-00.png","label":"2026-10-24 09:00","valid":"2026-10-24 09:00","caption":"WRF MAGNESIA — 2026-10-24 09:00"},{"hour":22,"url":"maps/cloud/Magnesia_Meteologix_2026-10-24_10-00-00.png","label":"2026-10-24 10:00","valid":"2026-10-24 10:00","caption":"WRF MAGNESIA — 2026-10-24 10:00"},{"hour":23,"url":"maps/cloud/Magnesia_Meteologix_2026-10-24_11-00-00.png","label":"2026-10-24 11:00","valid":"2026-10-24 11:00","caption":"WRF MAGNESIA — 2026-10-24 11:00"},{"hour":24,"url":"maps/cloud/Magnesia_Meteologix_2026-10-24_12-00-00.png","label":"2026-10-24 12:00","valid":"2026-10-24 12:00","caption":"WRF MAGNESIA — 2026-10-24 12:00"},{"hour":25,"url":"maps/cloud/Magnesia_Meteologix_2026-10-24_13-00-00.png","label":"2026-10-24 13:00","valid":"2026-10-24 13:00","caption":"WRF MAGNESIA — 2026-10-24 13:00"},{"hour":26,"url":"maps/cloud/Magnesia_Meteologix_2026-10-24_14-00-00.png","label":"2026-10-24 14:00","valid":"2026-10-24 14:00","caption":"WRF MAGNESIA — 2026-10-24 14:00"},{"hour":27,"url":"maps/cloud/Magnesia_Meteologix_2026-10-24_15-00-00.png","label":"2026-10-24 15:00","valid":"2026-10-24 15:00","caption":"WRF MAGNESIA — 2026-10-24 15:00"},{"hour":28,"url":"maps/cloud/Magnesia_Meteologix_2026-10-24_16-00-00.png","label":"2026-10-24 16:00","valid":"2026-10-24 16:00","caption":"WRF MAGNESIA — 2026-10-24 16:00"},{"hour":29,"url":"maps/cloud/Magnesia_Meteologix_2026-10-24_17-00-00.png","label":"2026-10-24 17:00","valid":"2026-10-24 17:00","caption":"WRF MAGNESIA — 2026-10-24 17:00"},{"hour":30,"url":"maps/cloud/Magnesia_Meteologix_2026-10-24_18-00-00.png","label":"2026-10-24 18:00","valid":"2026-10-24 18:00","caption":"WRF MAGNESIA — 2026-10-24 18:00"},{"hour":31,"url":"maps/cloud/Magnesia_Meteologix_2026-10-24_19-00-00.png","label":"2026-10-24 19:00","valid":"2026-10-24 19:00","caption":"WRF MAGNESIA — 2026-10-24 19:00"},{"hour":32,"url":"maps/cloud/Magnesia_Meteologix_2026-10-24_20-00-00.png","label":"2026-10-24 20:00","valid":"2026-10-24 20:00","caption":"WRF MAGNESIA — 2026-10-24 20:00"},{"hour":33,"url":"maps/cloud/Magnesia_Meteologix_2026-10-24_21-00-00.png","label":"2026-10-24 21:00","valid":"2026-10-24 21:00","caption":"WRF MAGNESIA — 2026-10-24 21:00"},{"hour":34,"url":"maps/cloud/Magnesia_Meteologix_2026-10-24_22-00-00.png","label":"2026-10-24 22:00","valid":"2026-10-24 22:00","caption":"WRF MAGNESIA — 2026-10-24 22:00"},{"hour":35,"url":"maps/cloud/Magnesia_Meteologix_2026-10-24_23-00-00.png","label":"2026-10-24 23:00","valid":"2026-10-24 23:00","caption":"WRF MAGNESIA — 2026-10-24 23:00"},{"hour":36,"url":"maps/cloud/Magnesia_Meteologix_2026-10-25_00-00-00.png","label":"2026-10-25 00:00","valid":"2026-10-25 00:00","caption":"WRF MAGNESIA — 2026-10-25 00:00"},{"hour":37,"url":"maps/cloud/Magnesia_Meteologix_2026-10-25_01-00-00.png","label":"2026-10-25 01:00","valid":"2026-10-25 01:00","caption":"WRF MAGNESIA — 2026-10-25 01:00"},{"hour":38,"url":"maps/cloud/Magnesia_Meteologix_2026-10-25_02-00-00.png","label":"2026-10-25 02:00","valid":"2026-10-25 02:00","caption":"WRF MAGNESIA — 2026-10-25 02:00"},{"hour":39,"url":"maps/cloud/Magnesia_Meteologix_2026-10-25_03-00-00.png","label":"2026-10-25 03:00","valid":"2026-10-25 03:00","caption":"WRF MAGNESIA — 2026-10-25 03:00"},{"hour":40,"url":"maps/cloud/Magnesia_Meteologix_2026-10-25_04-00-00.png","label":"2026-10-25 04:00","valid":"2026-10-25 04:00","caption":"WRF MAGNESIA — 2026-10-25 04:00"}],"rain":[{"hour":0,"url":"maps/rain/Rain_Relief_FH0h.png","label":"+0 ώρες","valid":"Πρόγνωση +0 h","caption":"WRF MAGNESIA — +0 ώρες"},{"hour":1,"url":"maps/rain/Rain_Relief_FH1h.png","label":"+1 ώρες","valid":"Πρόγνωση +1 h","caption":"WRF MAGNESIA — +1 ώρες"},{"hour":2,"url":"maps/rain/Rain_Relief_FH2h.png","label":"+2 ώρες","valid":"Πρόγνωση +2 h","caption":"WRF MAGNESIA — +2 ώρες"},{"hour":3,"url":"maps/rain/Rain_Relief_FH3h.png","label":"+3 ώρες","valid":"Πρόγνωση +3 h","caption":"WRF MAGNESIA — +3 ώρες"},{"hour":4,"url":"maps/rain/Rain_Relief_FH4h.png","label":"+4 ώρες","valid":"Πρόγνωση +4 h","caption":"WRF MAGNESIA — +4 ώρες"},{"hour":5,"url":"maps/rain/Rain_Relief_FH5h.png","label":"+5 ώρες","valid":"Πρόγνωση +5 h","caption":"WRF MAGNESIA — +5 ώρες"},{"hour":6,"url":"maps/rain/Rain_Relief_FH6h.png","label":"+6 ώρες","valid":"Πρόγνωση +6 h","caption":"WRF MAGNESIA — +6 ώρες"},{"hour":7,"url":"maps/rain/Rain_Relief_FH7h.png","label":"+7 ώρες","valid":"Πρόγνωση +7 h","caption":"WRF MAGNESIA — +7 ώρες"},{"hour":8,"url":"maps/rain/Rain_Relief_FH8h.png","label":"+8 ώρες","valid":"Πρόγνωση +8 h","caption":"WRF MAGNESIA — +8 ώρες"},{"hour":9,"url":"maps/rain/Rain_Relief_FH9h.png","label":"+9 ώρες","valid":"Πρόγνωση +9 h","caption":"WRF MAGNESIA — +9 ώρες"},{"hour":10,"url":"maps/rain/Rain_Relief_FH10h.png","label":"+10 ώρες","valid":"Πρόγνωση +10 h","caption":"WRF MAGNESIA — +10 ώρες"},{"hour":11,"url":"maps/rain/Rain_Relief_FH11h.png","label":"+11 ώρες","valid":"Πρόγνωση +11 h","caption":"WRF MAGNESIA — +11 ώρες"},{"hour":12,"url":"maps/rain/Rain_Relief_FH12h.png","label":"+12 ώρες","valid":"Πρόγνωση +12 h","caption":"WRF MAGNESIA — +12 ώρες"},{"hour":13,"url":"maps/rain/Rain_Relief_FH13h.png","label":"+13 ώρες","valid":"Πρόγνωση +13 h","caption":"WRF MAGNESIA — +13 ώρες"},{"hour":14,"url":"maps/rain/Rain_Relief_FH14h.png","label":"+14 ώρες","valid":"Πρόγνωση +14 h","caption":"WRF MAGNESIA — +14 ώρες"},{"hour":15,"url":"maps/rain/Rain_Relief_FH15h.png","label":"+15 ώρες","valid":"Πρόγνωση +15 h","caption":"WRF MAGNESIA — +15 ώρες"},{"hour":16,"url":"maps/rain/Rain_Relief_FH16h.png","label":"+16 ώρες","valid":"Πρόγνωση +16 h","caption":"WRF MAGNESIA — +16 ώρες"},{"hour":17,"url":"maps/rain/Rain_Relief_FH17h.png","label":"+17 ώρες","valid":"Πρόγνωση +17 h","caption":"WRF MAGNESIA — +17 ώρες"},{"hour":18,"url":"maps/rain/Rain_Relief_FH18h.png","label":"+18 ώρες","valid":"Πρόγνωση +18 h","caption":"WRF MAGNESIA — +18 ώρες"},{"hour":19,"url":"maps/rain/Rain_Relief_FH19h.png","label":"+19 ώρες","valid":"Πρόγνωση +19 h","caption":"WRF MAGNESIA — +19 ώρες"},{"hour":20,"url":"maps/rain/Rain_Relief_FH20h.png","label":"+20 ώρες","valid":"Πρόγνωση +20 h","caption":"WRF MAGNESIA — +20 ώρες"},{"hour":21,"url":"maps/rain/Rain_Relief_FH21h.png","label":"+21 ώρες","valid":"Πρόγνωση +21 h","caption":"WRF MAGNESIA — +21 ώρες"},{"hour":22,"url":"maps/rain/Rain_Relief_FH22h.png","label":"+22 ώρες","valid":"Πρόγνωση +22 h","caption":"WRF MAGNESIA — +22 ώρες"},{"hour":23,"url":"maps/rain/Rain_Relief_FH23h.png","label":"+23 ώρες","valid":"Πρόγνωση +23 h","caption":"WRF MAGNESIA — +23 ώρες"},{"hour":24,"url":"maps/rain/Rain_Relief_FH24h.png","label":"+24 ώρες","valid":"Πρόγνωση +24 h","caption":"WRF MAGNESIA — +24 ώρες"},{"hour":25,"url":"maps/rain/Rain_Relief_FH25h.png","label":"+25 ώρες","valid":"Πρόγνωση +25 h","caption":"WRF MAGNESIA — +25 ώρες"},{"hour":26,"url":"maps/rain/Rain_Relief_FH26h.png","label":"+26 ώρες","valid":"Πρόγνωση +26 h","caption":"WRF MAGNESIA — +26 ώρες"},{"hour":27,"url":"maps/rain/Rain_Relief_FH27h.png","label":"+27 ώρες","valid":"Πρόγνωση +27 h","caption":"WRF MAGNESIA — +27 ώρες"},{"hour":28,"url":"maps/rain/Rain_Relief_FH28h.png","label":"+28 ώρες","valid":"Πρόγνωση +28 h","caption":"WRF MAGNESIA — +28 ώρες"},{"hour":29,"url":"maps/rain/Rain_Relief_FH29h.png","label":"+29 ώρες","valid":"Πρόγνωση +29 h","caption":"WRF MAGNESIA — +29 ώρες"},{"hour":30,"url":"maps/rain/Rain_Relief_FH30h.png","label":"+30 ώρες","valid":"Πρόγνωση +30 h","caption":"WRF MAGNESIA — +30 ώρες"},{"hour":31,"url":"maps/rain/Rain_Relief_FH31h.png","label":"+31 ώρες","valid":"Πρόγνωση +31 h","caption":"WRF MAGNESIA — +31 ώρες"},{"hour":32,"url":"maps/rain/Rain_Relief_FH32h.png","label":"+32 ώρες","valid":"Πρόγνωση +32 h","caption":"WRF MAGNESIA — +32 ώρες"},{"hour":33,"url":"maps/rain/Rain_Relief_FH33h.png","label":"+33 ώρες","valid":"Πρόγνωση +33 h","caption":"WRF MAGNESIA — +33 ώρες"},{"hour":34,"url":"maps/rain/Rain_Relief_FH34h.png","label":"+34 ώρες","valid":"Πρόγνωση +34 h","caption":"WRF MAGNESIA — +34 ώρες"},{"hour":35,"url":"maps/rain/Rain_Relief_FH35h.png","label":"+35 ώρες","valid":"Πρόγνωση +35 h","caption":"WRF MAGNESIA — +35 ώρες"},{"hour":36,"url":"maps/rain/Rain_Relief_FH36h.png","label":"+36 ώρες","valid":"Πρόγνωση +36 h","caption":"WRF MAGNESIA — +36 ώρες"},{"hour":37,"url":"maps/rain/Rain_Relief_FH37h.png","label":"+37 ώρες","valid":"Πρόγνωση +37 h","caption":"WRF MAGNESIA — +37 ώρες"},{"hour":38,"url":"maps/rain/Rain_Relief_FH38h.png","label":"+38 ώρες","valid":"Πρόγνωση +38 h","caption":"WRF MAGNESIA — +38 ώρες"},{"hour":39,"url":"maps/rain/Rain_Relief_FH39h.png","label":"+39 ώρες","valid":"Πρόγνωση +39 h","caption":"WRF MAGNESIA — +39 ώρες"},{"hour":40,"url":"maps/rain/Rain_Relief_FH40h.png","label":"+40 ώρες","valid":"Πρόγνωση +40 h","caption":"WRF MAGNESIA — +40 ώρες"},{"hour":41,"url":"maps/rain/ (2).png","label":" (2)","valid":" (2)","caption":"WRF MAGNESIA —  (2)"},{"hour":42,"url":"maps/rain/ (3).png","label":" (3)","valid":" (3)","caption":"WRF MAGNESIA —  (3)"},{"hour":43,"url":"maps/rain/ (4).png","label":" (4)","valid":" (4)","caption":"WRF MAGNESIA —  (4)"},{"hour":44,"url":"maps/rain/ (5).png","label":" (5)","valid":" (5)","caption":"WRF MAGNESIA —  (5)"}],"snow":[],"meteograms":[{"hour":0,"url":"maps/meteograms/Meteogram_Αλμυρός.png","label":"Αλμυρός","valid":"Αλμυρός","caption":"WRF MAGNESIA — Αλμυρός"},{"hour":1,"url":"maps/meteograms/Meteogram_Ανάβρα.png","label":"Ανάβρα","valid":"Ανάβρα","caption":"WRF MAGNESIA — Ανάβρα"},{"hour":2,"url":"maps/meteograms/Meteogram_Αργαλαστή.png","label":"Αργαλαστή","valid":"Αργαλαστή","caption":"WRF MAGNESIA — Αργαλαστή"},{"hour":3,"url":"maps/meteograms/Meteogram_Βόλος.png","label":"Βόλος","valid":"Βόλος","caption":"WRF MAGNESIA — Βόλος"},{"hour":4,"url":"maps/meteograms/Meteogram_Ζαγορά.png","label":"Ζαγορά","valid":"Ζαγορά","caption":"WRF MAGNESIA — Ζαγορά"},{"hour":5,"url":"maps/meteograms/Meteogram_Κωφοί_Μαγνησίας.png","label":"Κωφοί Μαγνησίας","valid":"Κωφοί Μαγνησίας","caption":"WRF MAGNESIA — Κωφοί Μαγνησίας"},{"hour":6,"url":"maps/meteograms/Meteogram_Σούρπη.png","label":"Σούρπη","valid":"Σούρπη","caption":"WRF MAGNESIA — Σούρπη"},{"hour":7,"url":"maps/meteograms/Meteogram_Όθρυς.png","label":"Όθρυς","valid":"Όθρυς","caption":"WRF MAGNESIA — Όθρυς"}],"storms":[],"profiles":[{"hour":0,"url":"maps/profiles/kofos_vertical_advanced_v4_4_gfs_direct.png","label":"Κωφοί — κατακόρυφο προφίλ","valid":"Κωφοί — κατακόρυφο προφίλ","caption":"WRF MAGNESIA — Κωφοί — κατακόρυφο προφίλ"}],"local-forecast":[{"hour":0,"url":"maps/local-forecast/forecast_almyros.png","label":"almyros","valid":"almyros","caption":"WRF MAGNESIA — almyros"},{"hour":1,"url":"maps/local-forecast/forecast_anchialos.png","label":"anchialos","valid":"anchialos","caption":"WRF MAGNESIA — anchialos"},{"hour":2,"url":"maps/local-forecast/forecast_argalasti.png","label":"argalasti","valid":"argalasti","caption":"WRF MAGNESIA — argalasti"},{"hour":3,"url":"maps/local-forecast/forecast_kofoi.png","label":"kofoi","valid":"kofoi","caption":"WRF MAGNESIA — kofoi"},{"hour":4,"url":"maps/local-forecast/forecast_othrys.png","label":"othrys","valid":"othrys","caption":"WRF MAGNESIA — othrys"},{"hour":5,"url":"maps/local-forecast/forecast_sourpi.png","label":"sourpi","valid":"sourpi","caption":"WRF MAGNESIA — sourpi"},{"hour":6,"url":"maps/local-forecast/forecast_velestino.png","label":"velestino","valid":"velestino","caption":"WRF MAGNESIA — velestino"},{"hour":7,"url":"maps/local-forecast/forecast_volos.png","label":"volos","valid":"volos","caption":"WRF MAGNESIA — volos"},{"hour":8,"url":"maps/local-forecast/forecast_zagora.png","label":"zagora","valid":"zagora","caption":"WRF MAGNESIA — zagora"}],"national-rain":[]};
 let activeKind="rain",activeIndex=0;
 function update(){
 const list=maps[activeKind]||[],hasMaps=list.length>0;
